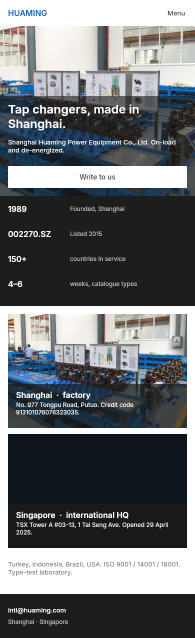
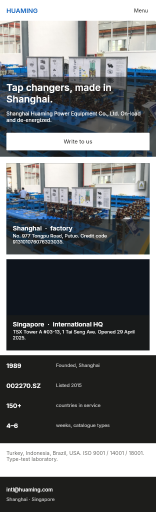
draft: About 390 teasers before numbers
Lock is stage → photo teasers → list. Cycle-11 reviews: no must-fix.

diff --git a/docs/DRAFT-STATUS.md b/docs/DRAFT-STATUS.md
@@ -1,9 +1,9 @@
 # Huaming EN OpenPencil draft — status
 
-Updated: 2026-08-20 04:38 +08  
+Updated: 2026-08-20 05:00 +08  
 Hard stop: **2026-08-20 07:00 +08**
 
-Queue **done** (slices 0–16). Scheduler may still fire for nits; do not recode Next.js. If past 07:00, stop.
+Queue **done** (slices 0–17). Scheduler may still fire for nits; do not recode Next.js. If past 07:00, stop.
 
 ## Where
 
@@ -30,6 +30,7 @@ Home (+390), Products, Downloads, About, Contact, Projects, News, Careers, Learn
 - Cycle 8: remaining 390s. UX/industrial no must-fix. Copy: WSL 390 now H1 `WSL / WDL`. CTA Leaflet.
 - Cycle 9: Contact stage CTA Write to us (desk + 390). No must-fix.
 - Cycle 10: leftover 390s (Projects, News, SHZV, HWV, CM). UX/industrial no must-fix. Copy: News dek is Longdong / Singapore HQ / Listed 2015. About 390 legal name.
+- Cycle 11: About 390 HQ teasers before numbers. No must-fix.
 
 ## Slice 8 (03:03)
 
@@ -67,9 +68,15 @@ Contact stage has one CTA: Write to us (desk + 390). Form Send stays below the t
 
 Leftover 390s exported (Projects, News, SHZV, HWV, CM). About 390 dek is the legal name. ISO line includes Type-test laboratory. News dek: Longdong ±800 kV. Singapore HQ. Listed 2015.
 
+## Slice 17 (05:00)
+
+About 390 is stage → HQ photo teasers → dark numbers. Cycle-11 no must-fix.
+
 ## Still open (not blocking the draft)
 
 - CMA7 cabinet is grey paint, so its teaser stays paler than vacuum PNGs. That is the product, not leftover studio.
 - WSL WDG/ZWC and CMA7 SHM-D/SHM-X teasers are empty dark bands (no still on disk).
+- Contact desk teasers are still a short custom row, not `photoTeaser`.
+- About desk still puts numbers between stage and HQ teasers.
 
 Eric: open the `.fig` in OpenPencil. Spec for Next.js only after he says so.

diff --git a/sketches/mr-openpencil-2026-08-19/reviews/cycle-11-ux.md b/sketches/mr-openpencil-2026-08-19/reviews/cycle-11-ux.md
@@ -1,0 +1,21 @@
+# Cycle 11 — UX
+
+Vs LOOP lock: chrome → stage → photo teasers → list last. About 390 had the numbers band before HQ teasers.
+
+Read: `preview-about-mobile.png`. Tokens: white / ink / `#0057B8`. No cream. No MR red.
+
+## Must-fix
+
+None. About 390 is now stage → HQ photo teasers → dark numbers → ISO line. Teasers are full-bleed + shade (Singapore empty dark, legal). No polaroid. No white + H1 + table.
+
+## Should-fix
+
+1. Contact desk teasers still the short custom row (220h, no kicker), not `photoTeaser`.
+
+2. About desk still puts the numbers band between stage and HQ teasers. 390 now matches the lock; desk does not.
+
+## Pass / fail vs MR
+
+| Page | Verdict | Why |
+|------|---------|-----|
+| About 390 | **Pass** | Factory stage, type BL, one CTA. Shanghai photo + Singapore dark HQ, then ink numbers. |

diff --git a/sketches/mr-openpencil-2026-08-19/reviews/cycle-11-copy.md b/sketches/mr-openpencil-2026-08-19/reviews/cycle-11-copy.md
@@ -1,0 +1,21 @@
+# Cycle 11 — copy
+
+About 390 order vs `about.md`. Facts unchanged; only stack order.
+
+## Must-fix
+
+None.
+
+## Leave
+
+Dek: Shanghai Huaming Power Equipment Co., Ltd. On-load and de-energized. CTA Write to us.
+
+Shanghai: No. 977 Tongpu Road, Putuo. Credit code 913101076076323035. Singapore: TSX Tower A #03-13, 1 Tai Seng Ave. Opened 29 April 2025.
+
+Numbers: 1989 Founded, Shanghai. 002270.SZ Listed 2015. 150+ countries in service. 4–6 weeks, catalogue types.
+
+ISO line: Turkey, Indonesia, Brazil, USA. ISO 9001 / 14001 / 18001. Type-test laboratory. Not 17025.
+
+## Nit
+
+Desk About still leads with numbers before the HQ tiles. Copy is the same; stack is not.

diff --git a/sketches/mr-openpencil-2026-08-19/LOOP.md b/sketches/mr-openpencil-2026-08-19/LOOP.md
@@ -55,6 +55,7 @@ Refuse: MR red, MR mark, MR sentences, cream paper, serif kickers.
 | 14 | 390 pass + WSL Leaflet | done 2026-08-20 03:58. WSL CTA Leaflet. Cycle-8 copy must-fix: H1 WSL / WDL. More 390 adds ZWC / SHM-D. |
 | 15 | Contact stage CTA | done 2026-08-20 04:30. Desk + 390 “Write to us”. Cycle-9 no must-fix. |
 | 16 | Leftover 390s + News dek | done 2026-08-20 04:38. About 390 legal name + type-test lab. News dek Longdong / Singapore HQ / Listed 2015. Cycle-10 copy must-fix applied. |
+| 17 | About 390 teasers first | done 2026-08-20 05:00. HQ photo teasers before the numbers band. Cycle-11 no must-fix. |
 
 ## Do not
 

diff --git a/sketches/mr-openpencil-2026-08-19/reviews/cycle-11-industrial.md b/sketches/mr-openpencil-2026-08-19/reviews/cycle-11-industrial.md
@@ -1,0 +1,13 @@
+# Cycle 11 — industrial
+
+About 390. No type ratings on this page.
+
+## Must-fix
+
+None.
+
+No CV2-500. No CM2 III 800/1000. No HWV-600. About does not name a SKU. Factory still is `factory.jpg`. Singapore stays a dark band, not a fake office still.
+
+## Leave
+
+Founded 1989, listed 2015 002270.SZ, 150+ countries, 4–6 weeks. Type-test laboratory. HQ copy matches `about.md`. CMA7 is not on this page.
